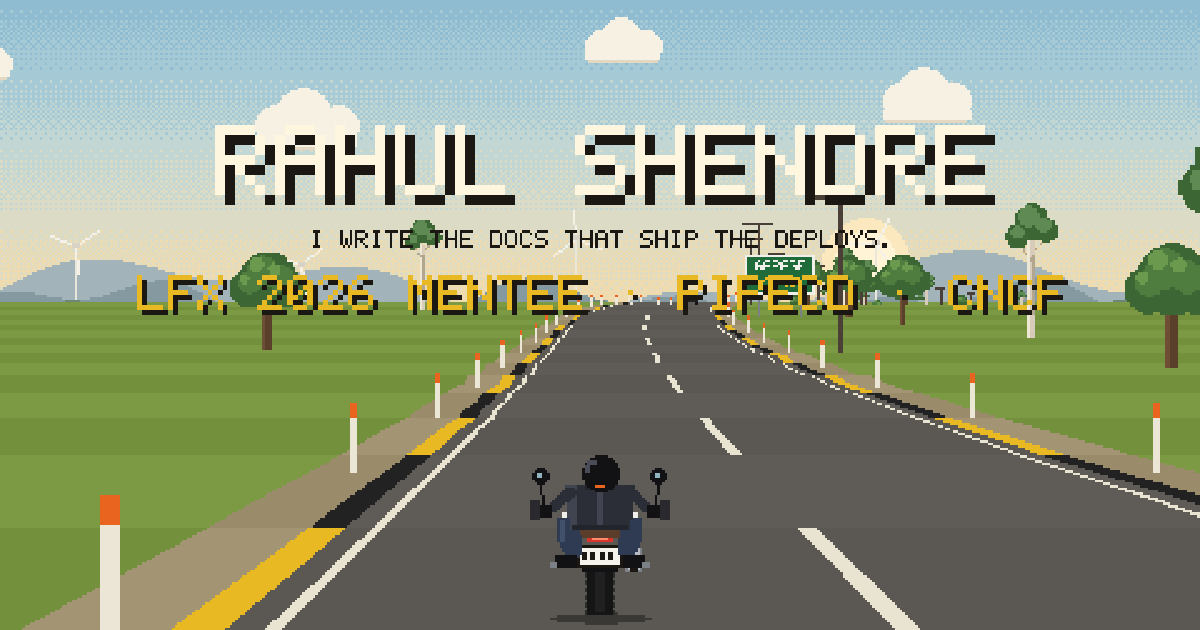
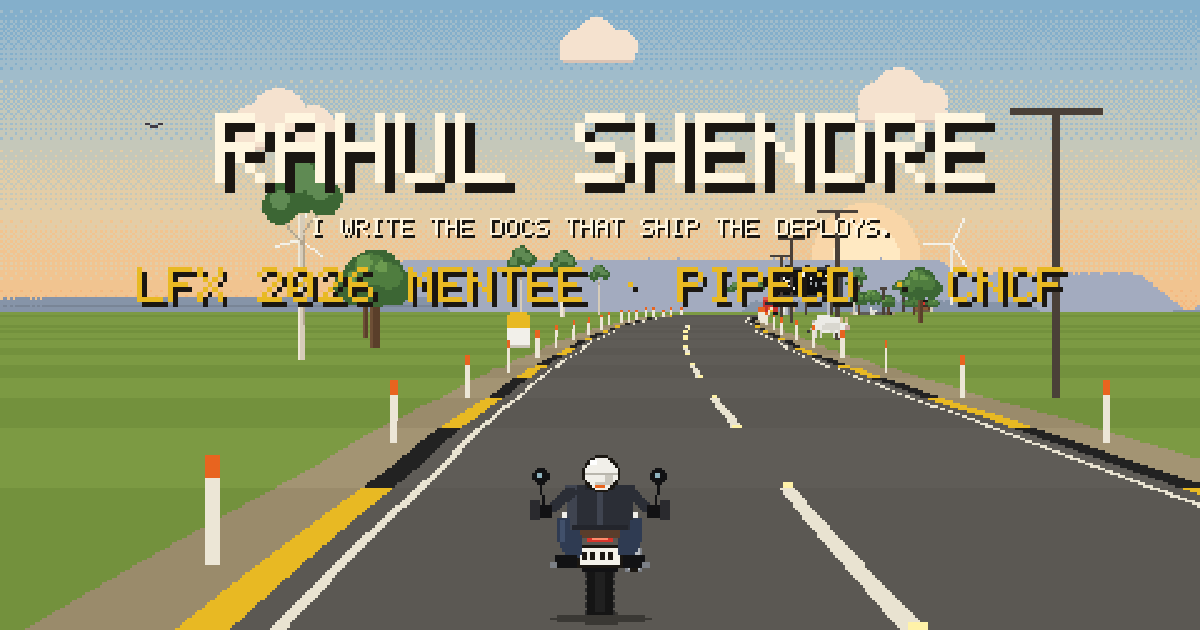
docs: refresh screenshots, share image and notes for the refinement pass

diff --git a/src/game/scenes/ride.ts b/src/game/scenes/ride.ts
@@ -65,6 +65,7 @@ export class RideScene implements Scene {
     input.endFrame();
     // ?at=700 starts the ride at a segment (handy for checking later chapters).
     const at = Number(new URLSearchParams(location.search).get('at'));
+    if (OG) { this.pos = 395 * SEG_L; return; } // share image: title over the open highway, clean sky
     if (at > 0) {
       this.phase = 'ride'; this.pos = at * SEG_L; this.speed = MAX_S * 0.8;
       MILESTONE_SEGS.filter((m) => m < at).forEach((m) => this.shown.add(m));
@@ -208,8 +209,7 @@ export class RideScene implements Scene {
   }
 
   private title(W: number, H: number) {
-    const s = W >= 400 ? 4 : 3, y = Math.round(H * 0.18), g = this.screen.ctx;
-    g.globalAlpha = 0.28; rect(0, y - 10, W, 9 * s + 62, C.ink); g.globalAlpha = 1;
+    const s = W >= 400 ? 4 : 3, y = Math.round(H * 0.18);
     textC(site.name.toUpperCase(), W / 2, y, C.hud, s, C.ink);
     textC(site.tagline.toUpperCase(), W / 2, y + 9 * s + 6, C.hud, 1, C.ink);
     if (OG) { textC('LFX 2026 MENTEE · PIPECD · CNCF', W / 2, y + 9 * s + 26, C.accent, 2, C.ink); return; } // share image
@@ -217,7 +217,7 @@ export class RideScene implements Scene {
       const p = matchMedia('(pointer: coarse)').matches ? 'TAP TO RIDE' : 'PRESS ANY KEY TO RIDE';
       textC(p, W / 2, y + 9 * s + 26, C.accent, 2, C.ink);
     }
-    const hint = W < 400 ? 'PUNE TO THE GARAGE · M: SOUND' : 'PUNE TO THE GARAGE · 20 SECONDS · M FOR SOUND';
+    const hint = W < 400 ? 'PUNE TO THE GARAGE · M: SOUND' : 'PUNE TO THE GARAGE · 30 SECONDS · M FOR SOUND';
     textC(hint, W / 2, W < 400 ? H - 30 : H - 13, C.hud, 1, C.ink);
     this.pill('SKIP >', 4, H - 15);
   }

diff --git a/src/game/ride/background.ts b/src/game/ride/background.ts
@@ -100,7 +100,7 @@ export function drawBackground(g: CanvasRenderingContext2D, W: number, H: number
   LAYERS.forEach((L, k) => {
     const col = mix(HILL_DAY[k], HILL_DUSK[k], env.tod);
     const band = mix(col, '#1b1712', 0.12);
-    const amp = L.amp * (L.ampG[0] + L.ampG[1] * env.ghat);
+    const amp = L.amp * (L.ampG[0] + L.ampG[1] * env.ghat) * Math.max(1, H / 300); // taller screens, taller hills
     const hAt = (i: number) => {
       const u = Math.floor(((i + off * L.par) % PERIOD + PERIOD) % PERIOD);
       return Math.round(L.prof[u] * amp);

diff --git a/src/game/art/sprites.ts b/src/game/art/sprites.ts
@@ -275,7 +275,7 @@ export function monkey(): Sprite {
     ellipse(9, 11, 5, 6, '#8a6d52'); disc(9, 4, 4, '#8a6d52'); rect(7, 4, 5, 3, '#d9b8a0');
     rect(7, 4, 1, 1, C.ink); rect(10, 4, 1, 1, C.ink);
     line(13, 14, 17, 9, '#7a5f47'); rect(5, 16, 3, 2, '#7a5f47'); rect(10, 16, 3, 2, '#7a5f47');
-  }, 260);
+  }, 150);
 }
 
 export type Icons = Record<'github' | 'x' | 'linkedin' | 'youtube', HTMLImageElement> & { pipecd: HTMLImageElement };

diff --git a/docs/MORNING-REPORT.md b/docs/MORNING-REPORT.md
@@ -8,6 +8,30 @@ pnpm install && pnpm dev     # http://localhost:4321
 
 Screenshots of every scene and a few pages are in `docs/screenshots/`.
 
+## Refinement pass (29 Sep, later)
+
+Focus was the landing page (the game). What changed and why:
+
+- **Bike**: sprite now matches the real Pearl Metallic White / Phantom Black colourway (pearl tank, black diagonal stripe, gold forks, brown seat), made from Triumph's studio shot with `--stripe-black`.
+- **Rider**: white helmet everywhere, and Rahul now rides the bike into the door scene.
+- **Road as a story, in chapters**:
+  - Pune outskirts: pastel houses with black rooftop water tanks, MEDICAL / KIRANA / XEROX shops, a chai stall.
+  - Open highway: cows on the verge, wind farm, a vada pav stall.
+  - Sahyadri ghats: stepped basalt cliffs, waterfalls, mist, black-yellow parapets, a monkey, a "GHAT SECTION" sign.
+  - Tunnel: portal in the hillside, dark walls, ceiling lights, bright exit.
+  - Plateau: the garage at the end.
+- **Hoardings**: PipeCD, GitHub, YouTube, X and LinkedIn billboards along the way, with pixel logos made from the official shapes.
+- **Traffic**: auto-rickshaws, a painted truck, an MSRTC ST bus and a hatchback. All keep left; the autopilot overtakes.
+- **Light and sky**: afternoon slides into dusk, so you arrive at sunset, matching the door scene. Flat-topped mesas sit in hazy layers, and hills grow taller on phones.
+- **HUD**: a progress bar with milestones, the tunnel stretch and the garage, plus the current chapter's name. Name and odometer sit in pills.
+- **Sound**: optional synthesised single-cylinder engine (`M`), off by default.
+- **Garage**:
+  - Dithered lighting from two tube lights, spots on the PipeCD sign, a floor pool and a vignette.
+  - A floor with perspective, shadows, and a neon RAHUL'S GARAGE sign.
+  - Enamel signs for YouTube, Twitter, LinkedIn and GitHub, all links. YouTube points to /videos until the channel URL is added in `src/data/site.ts`.
+  - Radio and polaroids removed to declutter.
+- **Door**: dusk mesas, a streetlight, a street dog whose tail wags when you arrive, and the real lit garage showing through as the door rises.
+
 ## What you get
 
 1. **Title card**: your name and tagline over the highway. Press any key or tap to ride.

diff --git a/README.md b/README.md
@@ -1,17 +1,17 @@
 # Rahul Shendre
 
-Personal site. A pixel-art ride down an Indian highway on a white Scrambler 400X that ends in a garage where every object links to real work.
+Personal site. A pixel-art ride on a Pearl White Scrambler 400X from the Pune outskirts, over the open highway and up through the Sahyadri ghats and a tunnel, to a garage where every object links to real work.
 
-![Garage](docs/screenshots/08-garage.png)
+![Garage](docs/screenshots/10-garage.png)
 
-More screenshots in `docs/screenshots/`. Overnight build notes in `docs/MORNING-REPORT.md`.
+More screenshots in `docs/screenshots/`. Build notes in `docs/MORNING-REPORT.md`.
 
 ## Controls
 
 - Any key or tap: start the ride. `S` / Esc or SKIP: straight to the garage.
-- Arrow keys, A/D or tapping screen halves: steer (or let the autopilot ride).
-- `V`, `1` `2` `3` or the camera icon: behind, rider POV, top-down.
-- `/?ride` forces the ride, `/?garage` skips it, `/?door` shows only the door, `/?ride&og` is the share-image title.
+- Arrow keys, A/D or tapping screen halves: steer (or let the autopilot ride and overtake).
+- `V`, `1` `2` `3` or the camera icon: behind, rider POV, top-down. `M` or the speaker icon: engine sound.
+- `/?ride` forces the ride, `/?garage` skips it, `/?door` shows only the door, `/?ride&at=700` starts at a road segment, `/?ride&og` is the share-image title.
 
 ## Run it
 
